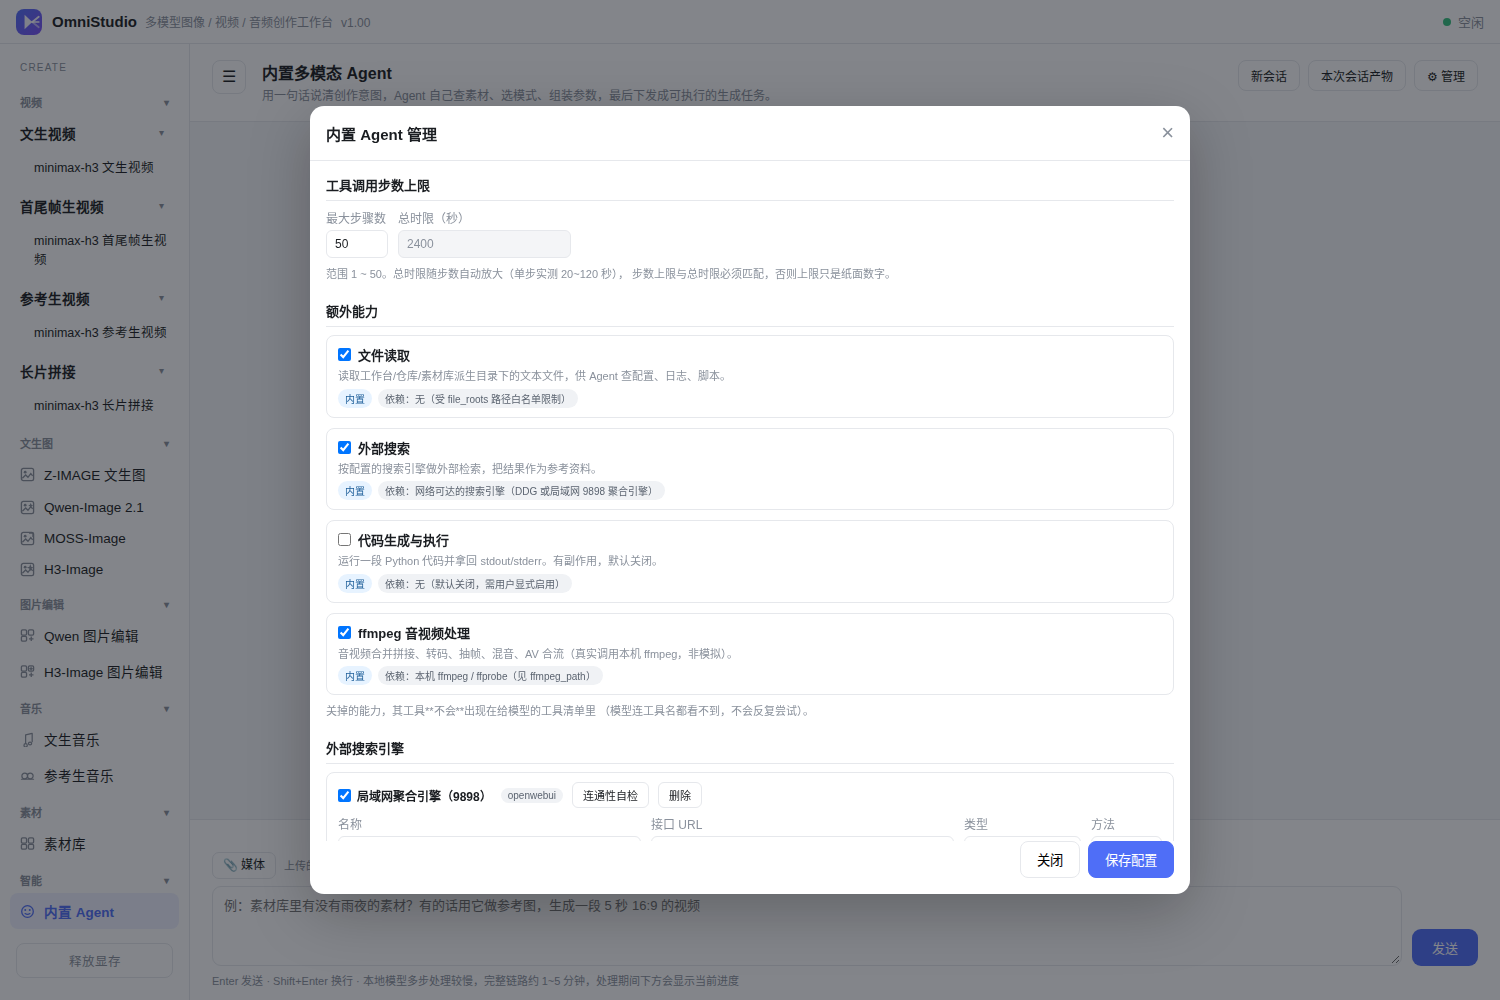
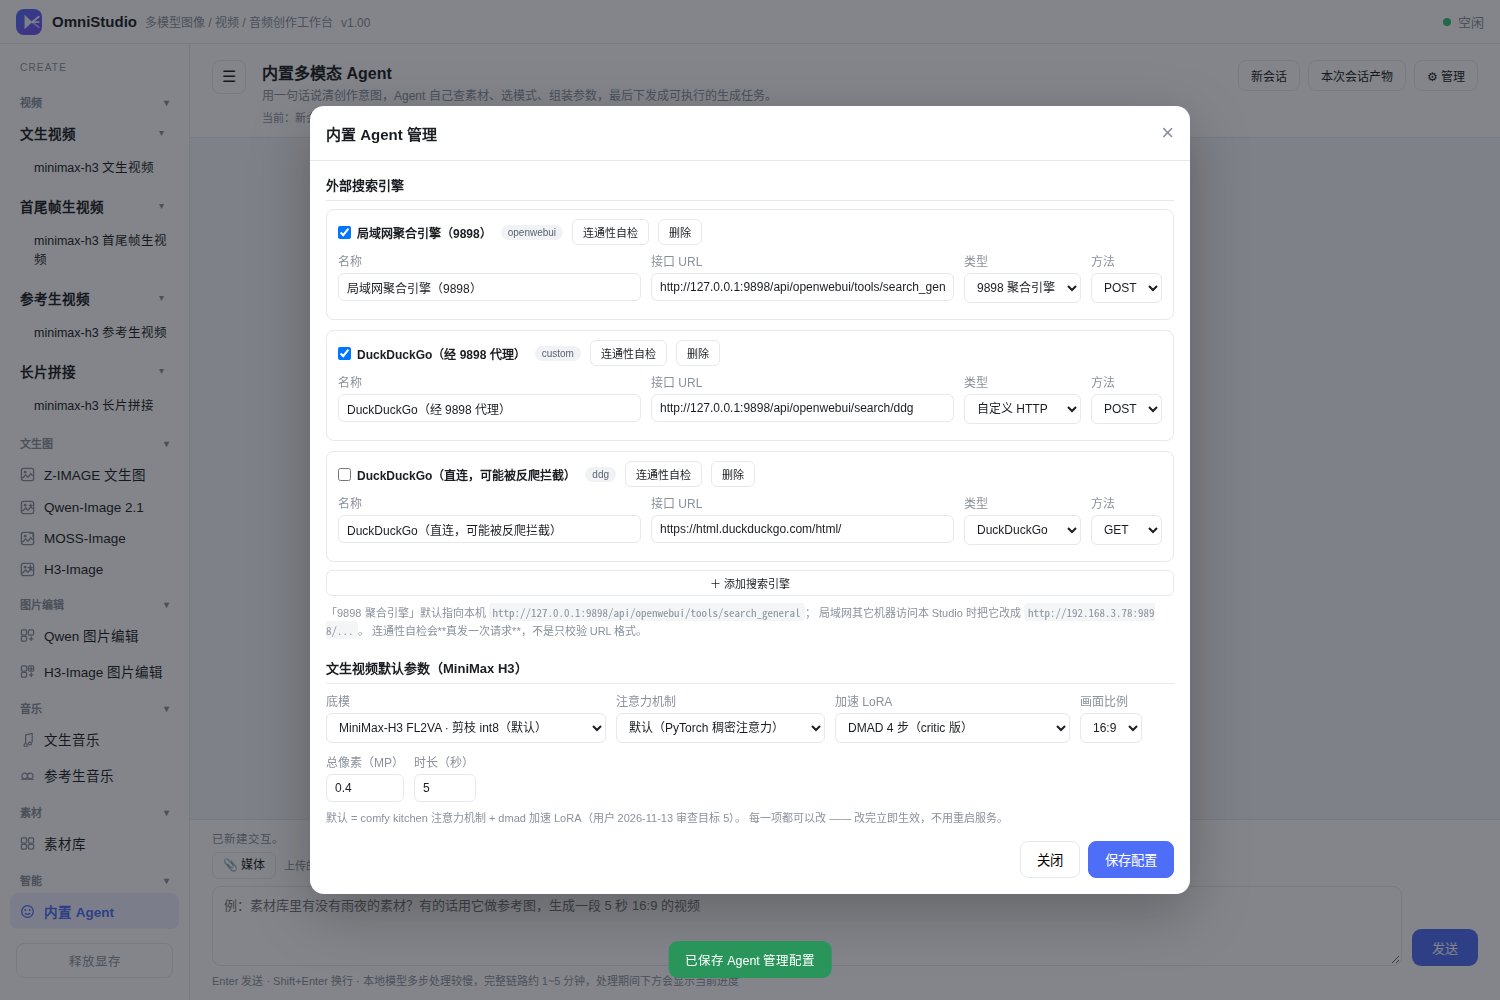
test(agent): 管理面板截图补强（滚到 t2v 区块再截，17/17）+ 截图内容经视觉核验
【问题】三张截图 sha256 **完全相同** -> 说明都没截到弹窗下半部分
（「文生视频默认参数」在弹窗下方，不滚动就看不到）。
这等于「截图文件名不是证据」（willis 纪律）。

【修法】滚动到 #agmT2vAttention 后再截，并加断言
「滚动后 t2v 默认参数下拉在视口内可见」。

【视觉核验（vision_analyze）—— 截图内容真的对】
  T3_manage_panel.png：可见「内置 Agent 管理」弹窗；步数上限 50；
    总时限 2400 秒；额外能力 4 个开关（文件读取/外部搜索/ffmpeg 音视频处理
    已勾选，代码生成与执行未勾选）；外部搜索引擎区块
  T3_manage_t2v.png：可见「外部搜索引擎」三条（局域网聚合引擎 /
    DuckDuckGo 代理 / DuckDuckGo 直连，各带名称+URL+类型+方法+自检+删除）
    与「文生视频默认参数（MiniMax H3）」区块，四个下拉框：
    底模 / 注意力机制 / 加速 LoRA / 画面比例
    （注意力机制显示「默认 (PyTorch 稠密注意力)」= 保存 default 生效后的真值）

【17/17 全绿】新增断言：滚动后 t2v 下拉在视口内可见。

diff --git a/scripts/verify_manage_panel_browser.py b/scripts/verify_manage_panel_browser.py
@@ -192,8 +192,6 @@ def main() -> int:
             check("模型下拉含 fl2va_pruned_int8",
                   opts.get("model") and "fl2va_pruned_int8" in opts["model"],
                   f"model 选项 = {opts.get('model')}")
-            page.screenshot(path=str(OUT / "T3_manage_t2v.png"),
-                            full_page=False)
 
             # 真改一个值 -> PUT -> 读回（真实 id：agmT2vAttention / agmSave）
             page.evaluate("""() => {
@@ -210,6 +208,26 @@ def main() -> int:
             }""")
             page.wait_for_timeout(2500)
             check("保存按钮存在并点击", saved, f"clicked={saved}")
+
+            # 【截图补强】弹窗内容比视口高 —— 「文生视频默认参数」区块在**下方**，
+            # 不滚动就截不到。滚到该区块再截一张（否则三张截图会完全一样，
+            # 看起来像没渲染）。
+            page.evaluate("""() => {
+                const el = document.querySelector('#agmT2vAttention');
+                if (el) el.scrollIntoView({block: 'center'});
+            }""")
+            page.wait_for_timeout(700)
+            t2v_visible = page.evaluate("""() => {
+                const el = document.querySelector('#agmT2vAttention');
+                if (!el) return false;
+                const r = el.getBoundingClientRect();
+                return r.width > 0 && r.height > 0
+                    && r.top >= 0 && r.bottom <= window.innerHeight;
+            }""")
+            check("滚动后 t2v 默认参数下拉在视口内可见",
+                  t2v_visible, f"visible={t2v_visible}")
+            page.screenshot(path=str(OUT / "T3_manage_t2v.png"),
+                            full_page=False)
 
             import urllib.request
             with urllib.request.urlopen(
